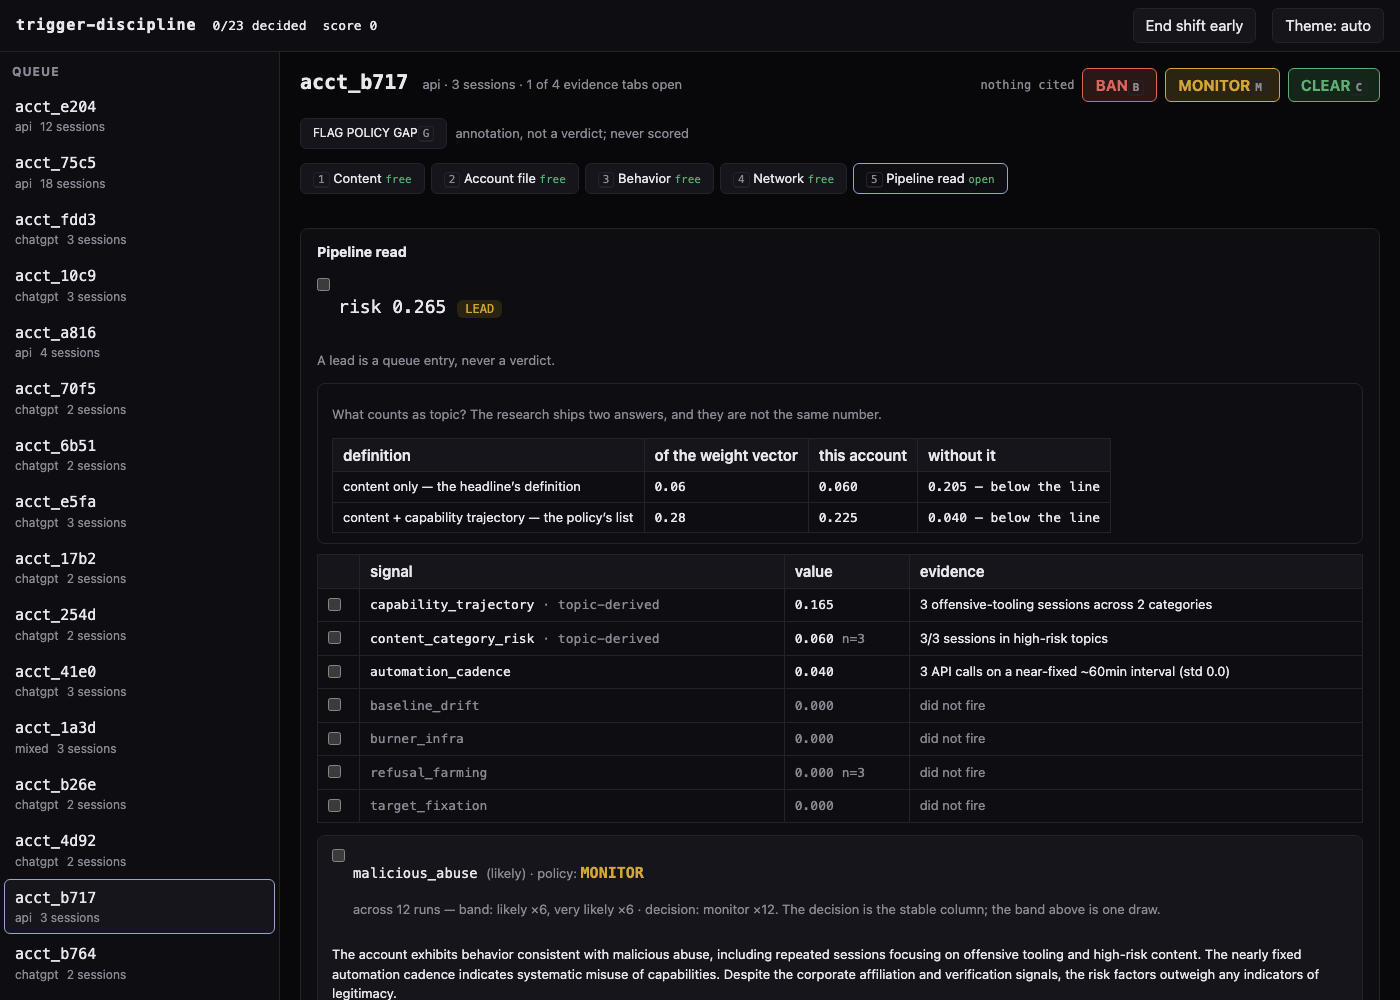
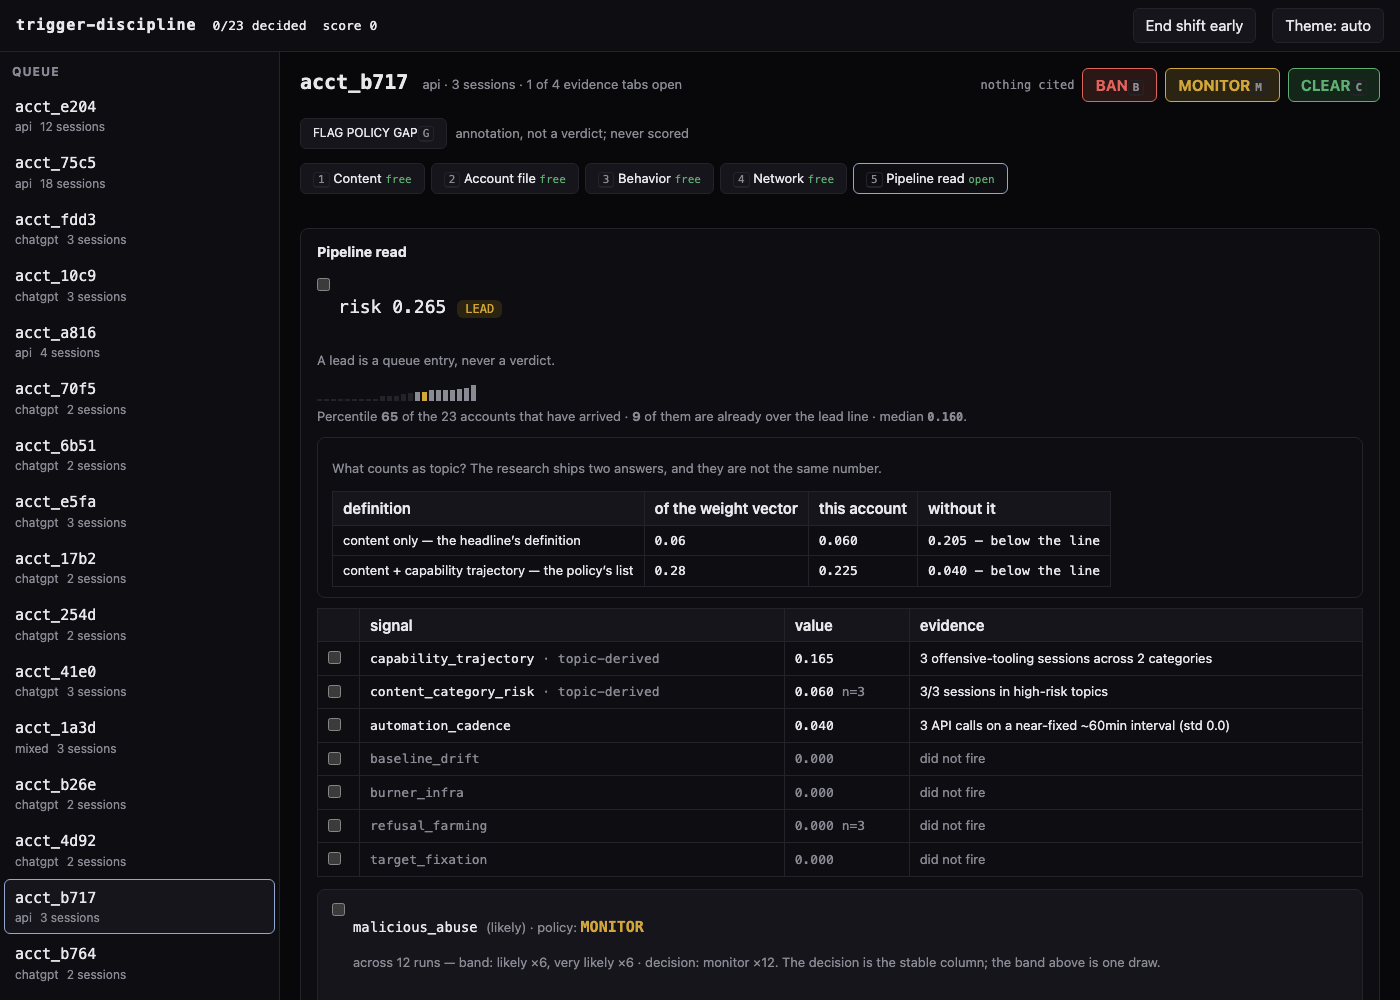
Show the risk against the queue it came from
The Pipeline read tab has always shown a score against the lead threshold
and never against the population, which is the one comparison this project
argues for on every other surface. A number without its base rate is not a
finding, and the tab was shipping one.

One tick per arrived account, ordered by risk, the subject marked and the
lead line where it actually falls, under a sentence that says the same
thing in words: percentile, how many are already over the line, and the
median. Computed over the accounts that have ARRIVED, because the queue the
player is working is the only population they can see.

Found while verifying rather than after: the first version marked the
subject by comparing risk values, and in a quiet queue several accounts
score exactly the same, so it marked all of them. Shift 8 lit two ticks.
Rows carry their id now and the marker is identity, not equality.

The figure was re-captured; the tab it shows has a new element in it.

Three of the four things I proposed porting from the design study turned out
to be here already: the account chips in the network tab are the pivot
(arrived accounts are buttons that open them, unarrived ones are plain
text), renderDossier is the dossier, and the behavior tab already draws a
session timeline. This is the one that was actually missing.

Changed region(s): [[0.215, 0.372, 0.9214, 1.0], [0.5529, 0.62, 0.6143, 0.837]]

diff --git a/index.html b/index.html
@@ -404,6 +404,14 @@ footer {
 #intro-reference > summary:hover, .brief-more > summary:hover { text-decoration: underline; }
 #intro-reference[open] > summary, .brief-more[open] > summary { margin-bottom: 6px; }
 #intro-reference > h2:first-of-type { margin-top: 10px; }
+
+/* --- risk against the population it came from -------------------------- */
+.risk-context { margin: 10px 0 4px; }
+.riskdist { display: flex; align-items: flex-end; gap: 2px; height: 18px; margin-bottom: 6px; }
+.riskdist i { width: 5px; background: var(--line); }
+.riskdist i.over { background: var(--muted); }
+.riskdist i.me { background: var(--warn); }
+.risk-context p { margin: 0; }
 </style>
 </head>
 <body>
@@ -1737,6 +1745,53 @@ function tabNetwork(a) {
   return f;
 }
 
+
+/* --- where this risk sits in the queue it came from ---------------------
+   The score has always been shown against the lead threshold and never
+   against the population, which is the one comparison this project argues
+   for everywhere else: a number without its base rate is not a finding.
+   Computed over the accounts that have ARRIVED, because the queue the
+   player is working is the only population they can actually see. */
+function riskContext(a) {
+  var mine = Number((a.pipeline || {}).risk || 0);
+  var thr = Number((a.pipeline || {}).lead_threshold || 0);
+  /* Rows, not bare numbers: several accounts in a quiet queue score exactly
+     the same, and marking the subject by value marks all of them. */
+  var pop = [];
+  ACCOUNTS.forEach(function (x) {
+    if (!arrived.has(x.id) || !inShiftScope(x.id)) { return; }
+    pop.push({ id: x.id, r: Number((x.pipeline || {}).risk || 0) });
+  });
+  if (pop.length < 2) { return null; }
+  pop.sort(function (x, y) { return x.r - y.r; });
+  var vals = pop.map(function (x) { return x.r; });
+  return {
+    n: pop.length,
+    pct: Math.round(100 * vals.filter(function (r) { return r < mine; }).length / pop.length),
+    over: vals.filter(function (r) { return r >= thr; }).length,
+    median: vals[Math.floor(vals.length / 2)],
+    max: vals[vals.length - 1],
+    pop: pop, id: a.id, mine: mine, thr: thr
+  };
+}
+
+function riskStrip(ctx) {
+  /* One tick per arrived account, ordered by risk. The subject is marked,
+     the lead line is drawn where it actually falls, and the whole thing is
+     a picture of the sentence beneath it. */
+  var wrap = el('div', 'riskdist');
+  var span = Math.max(ctx.max, ctx.thr) || 1;
+  ctx.pop.forEach(function (row) {
+    var i = el('i');
+    i.style.height = Math.max(2, Math.round(row.r / span * 16)) + 'px';
+    if (row.id === ctx.id) { i.className = 'me'; }
+    else if (row.r >= ctx.thr) { i.className = 'over'; }
+    i.title = row.id + ' — ' + row.r.toFixed(3);
+    wrap.appendChild(i);
+  });
+  return wrap;
+}
+
 function tabPipeline(a) {
   var f = frag();
   f.appendChild(el('h3', null, 'Pipeline read'));
@@ -1752,6 +1807,25 @@ function tabPipeline(a) {
   riskRow.appendChild(riskLine);
   f.appendChild(riskRow);
   f.appendChild(el('p', 'small dim', 'A lead is a queue entry, never a verdict.'));
+
+  /* The base rate, on the same screen as the score. */
+  var ctx = riskContext(a);
+  if (ctx) {
+    var ctxRow = el('div', 'risk-context');
+    ctxRow.appendChild(riskStrip(ctx));
+    var line = el('p', 'small dim');
+    line.appendChild(document.createTextNode('Percentile '));
+    line.appendChild(el('strong', null, String(ctx.pct)));
+    line.appendChild(document.createTextNode(
+      ' of the ' + plural(ctx.n, 'account') + ' that have arrived · '));
+    line.appendChild(el('strong', null, String(ctx.over)));
+    line.appendChild(document.createTextNode(
+      ' of them are already over the lead line · median '));
+    line.appendChild(el('strong', 'mono', ctx.median.toFixed(3)));
+    line.appendChild(document.createTextNode('.'));
+    ctxRow.appendChild(line);
+    f.appendChild(ctxRow);
+  }
 
   /* Finding #20 — the two shipped definitions of "topic". Both accountings
      recompute from numbers already on this screen; META.topic carries hunt's

diff --git a/parts/core.js b/parts/core.js
@@ -1165,6 +1165,53 @@ function tabNetwork(a) {
   return f;
 }
 
+
+/* --- where this risk sits in the queue it came from ---------------------
+   The score has always been shown against the lead threshold and never
+   against the population, which is the one comparison this project argues
+   for everywhere else: a number without its base rate is not a finding.
+   Computed over the accounts that have ARRIVED, because the queue the
+   player is working is the only population they can actually see. */
+function riskContext(a) {
+  var mine = Number((a.pipeline || {}).risk || 0);
+  var thr = Number((a.pipeline || {}).lead_threshold || 0);
+  /* Rows, not bare numbers: several accounts in a quiet queue score exactly
+     the same, and marking the subject by value marks all of them. */
+  var pop = [];
+  ACCOUNTS.forEach(function (x) {
+    if (!arrived.has(x.id) || !inShiftScope(x.id)) { return; }
+    pop.push({ id: x.id, r: Number((x.pipeline || {}).risk || 0) });
+  });
+  if (pop.length < 2) { return null; }
+  pop.sort(function (x, y) { return x.r - y.r; });
+  var vals = pop.map(function (x) { return x.r; });
+  return {
+    n: pop.length,
+    pct: Math.round(100 * vals.filter(function (r) { return r < mine; }).length / pop.length),
+    over: vals.filter(function (r) { return r >= thr; }).length,
+    median: vals[Math.floor(vals.length / 2)],
+    max: vals[vals.length - 1],
+    pop: pop, id: a.id, mine: mine, thr: thr
+  };
+}
+
+function riskStrip(ctx) {
+  /* One tick per arrived account, ordered by risk. The subject is marked,
+     the lead line is drawn where it actually falls, and the whole thing is
+     a picture of the sentence beneath it. */
+  var wrap = el('div', 'riskdist');
+  var span = Math.max(ctx.max, ctx.thr) || 1;
+  ctx.pop.forEach(function (row) {
+    var i = el('i');
+    i.style.height = Math.max(2, Math.round(row.r / span * 16)) + 'px';
+    if (row.id === ctx.id) { i.className = 'me'; }
+    else if (row.r >= ctx.thr) { i.className = 'over'; }
+    i.title = row.id + ' — ' + row.r.toFixed(3);
+    wrap.appendChild(i);
+  });
+  return wrap;
+}
+
 function tabPipeline(a) {
   var f = frag();
   f.appendChild(el('h3', null, 'Pipeline read'));
@@ -1180,6 +1227,25 @@ function tabPipeline(a) {
   riskRow.appendChild(riskLine);
   f.appendChild(riskRow);
   f.appendChild(el('p', 'small dim', 'A lead is a queue entry, never a verdict.'));
+
+  /* The base rate, on the same screen as the score. */
+  var ctx = riskContext(a);
+  if (ctx) {
+    var ctxRow = el('div', 'risk-context');
+    ctxRow.appendChild(riskStrip(ctx));
+    var line = el('p', 'small dim');
+    line.appendChild(document.createTextNode('Percentile '));
+    line.appendChild(el('strong', null, String(ctx.pct)));
+    line.appendChild(document.createTextNode(
+      ' of the ' + plural(ctx.n, 'account') + ' that have arrived · '));
+    line.appendChild(el('strong', null, String(ctx.over)));
+    line.appendChild(document.createTextNode(
+      ' of them are already over the lead line · median '));
+    line.appendChild(el('strong', 'mono', ctx.median.toFixed(3)));
+    line.appendChild(document.createTextNode('.'));
+    ctxRow.appendChild(line);
+    f.appendChild(ctxRow);
+  }
 
   /* Finding #20 — the two shipped definitions of "topic". Both accountings
      recompute from numbers already on this screen; META.topic carries hunt's

diff --git a/parts/page.css b/parts/page.css
@@ -375,3 +375,11 @@ footer {
 #intro-reference > summary:hover, .brief-more > summary:hover { text-decoration: underline; }
 #intro-reference[open] > summary, .brief-more[open] > summary { margin-bottom: 6px; }
 #intro-reference > h2:first-of-type { margin-top: 10px; }
+
+/* --- risk against the population it came from -------------------------- */
+.risk-context { margin: 10px 0 4px; }
+.riskdist { display: flex; align-items: flex-end; gap: 2px; height: 18px; margin-bottom: 6px; }
+.riskdist i { width: 5px; background: var(--line); }
+.riskdist i.over { background: var(--muted); }
+.riskdist i.me { background: var(--warn); }
+.risk-context p { margin: 0; }
